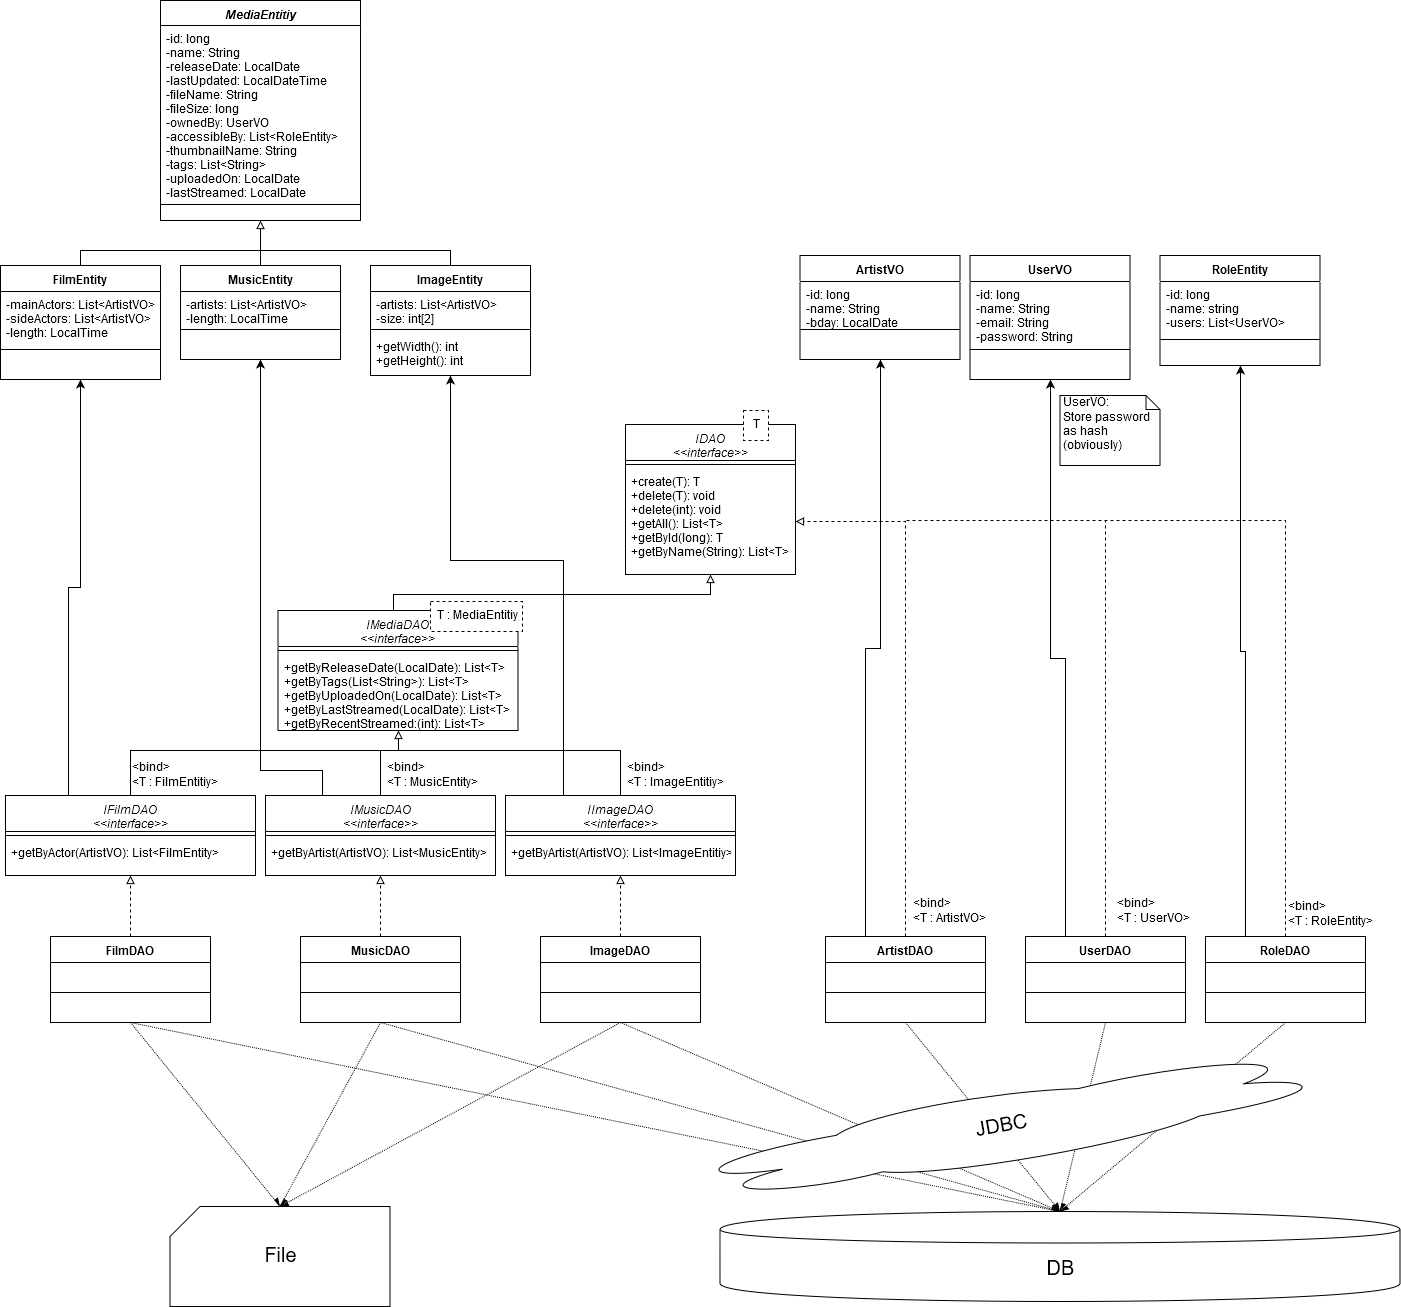
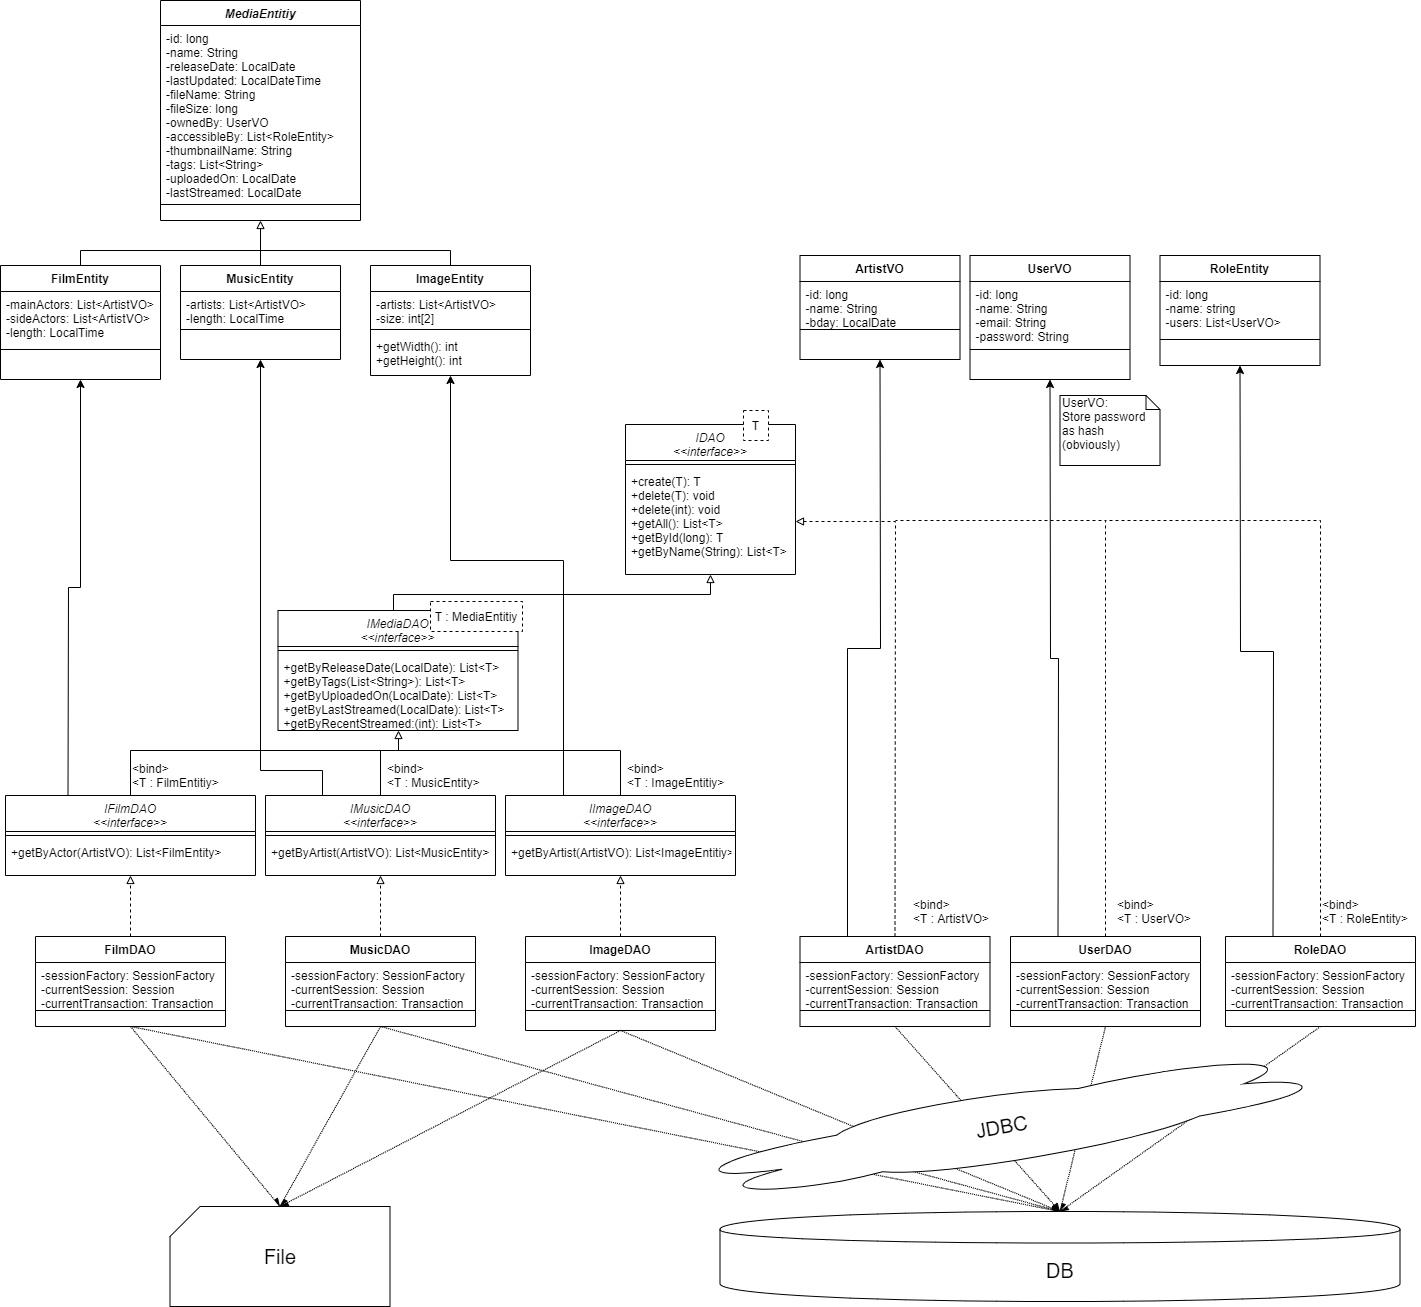
DAO 0.2.4 + updated tdoc
altered some stuff in the data access layer, but it doesn't work still....

diff --git a/HomeStream/HomeStream/src/main/java/com/homestream/HomeStream/hibernate/config/DbConfig.java b/HomeStream/HomeStream/src/main/java/com/homestream/HomeStream/hibernate/config/DbConfig.java
@@ -1,13 +1,16 @@
 package com.homestream.HomeStream.hibernate.config;
 
+import org.hibernate.SessionFactory;
 import org.springframework.beans.factory.annotation.Autowired;
 import org.springframework.context.annotation.Bean;
 import org.springframework.context.annotation.Configuration;
+import org.springframework.context.annotation.Primary;
 import org.springframework.core.env.Environment;
 import org.springframework.data.jpa.repository.config.EnableJpaRepositories;
 import org.springframework.jdbc.datasource.DriverManagerDataSource;
 import org.springframework.orm.hibernate5.HibernateTransactionManager;
 import org.springframework.orm.hibernate5.LocalSessionFactoryBean;
+import org.springframework.orm.hibernate5.LocalSessionFactoryBuilder;
 import org.springframework.transaction.PlatformTransactionManager;
 import org.springframework.transaction.annotation.EnableTransactionManagement;
 
@@ -48,22 +51,31 @@ public class DbConfig {
         return dataSource;
     }
 
-    @Bean
-    public LocalSessionFactoryBean sessionFactory() {
+    @Bean(name = { "sessionFactoryGinter" })
+    public LocalSessionFactoryBean sessionFactoryGinter() {
         LocalSessionFactoryBean sessionFactory = new LocalSessionFactoryBean();
         sessionFactory.setDataSource(dataSource());
         sessionFactory.setPackagesToScan(
                 "com.homestream.HomeStream.dao", "com.homestream.HomeStream.entity", "com.homestream.HomeStream.vo");
         sessionFactory.setHibernateProperties(hibernateProperties());
 
+
+
+
         return sessionFactory;
+    }
+
+    @Bean(name = { "sessionFactory" })
+    @Primary
+    public SessionFactory sessionFactory(){
+        return sessionFactoryGinter().getObject();
     }
 
     @Bean
     public PlatformTransactionManager hibernateTransactionManager() {
         HibernateTransactionManager transactionManager
                 = new HibernateTransactionManager();
-        transactionManager.setSessionFactory(sessionFactory().getObject());
+        transactionManager.setSessionFactory(sessionFactoryGinter().getObject());
         return transactionManager;
     }
 

diff --git a/HomeStream/HomeStream/src/main/java/com/homestream/HomeStream/web/assets/HTML.java b/HomeStream/HomeStream/src/main/java/com/homestream/HomeStream/web/assets/HTML.java
@@ -164,7 +164,7 @@ public class HTML
         out = Assets.replaceAll(out,"@TITLE", Properties.TITLE);
         out = Assets.replaceAll(out,"@MOTTO", Properties.MOTTO[(int) ((Math.random() * 10) % Properties.MOTTO.length)]);
 
-        out = out.replaceFirst("@CONTENT_TITLE", (search == null ? "" : search));
+        out = out.replaceFirst("@CONTENT_TITLE", search);
 
         return out;
     }
